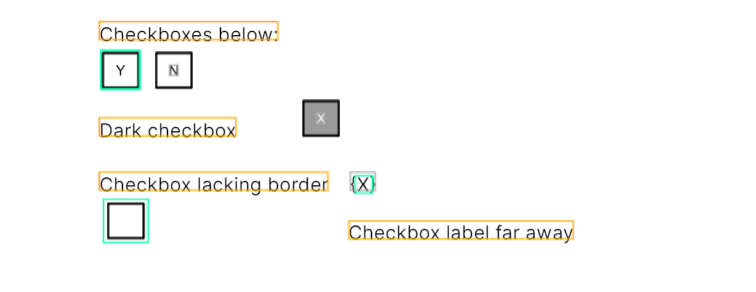
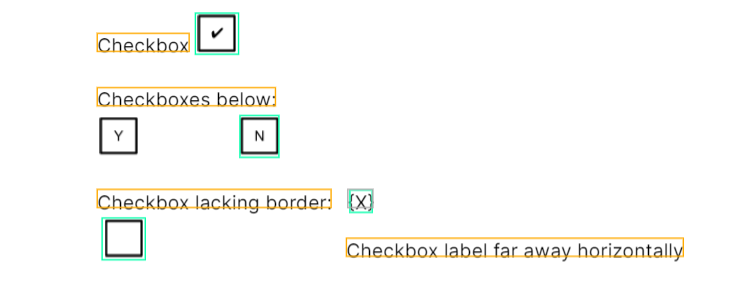
polish

Changed region(s): [[0.1222, 0.028, 0.9163, 0.9231]]

diff --git a/readme-sync/v0/senseml-reference/2000 - methods/1650 - draft-nearest-checkbox.md b/readme-sync/v0/senseml-reference/2000 - methods/1650 - draft-nearest-checkbox.md
@@ -4,7 +4,7 @@ hidden: true
 ---
 Searches for the checkbox nearest to the anchor in any direction, and returns a boolean indicating if it is selected or unselected. 
 
-Use this method as an alterative to the Checkbox method. The advantage of the Nearest Checkbox method is that it is more flexible, requires less configuration, and can sometimes recognize a selection mark when the Checkbox method can't. The disadvantage is that it's slower than the Checkbox method, because the Nearest Checkbox method uses OCR. 
+Use this method as an alterative to the Checkbox method. The advantage of the Nearest Checkbox method is that it is more flexible, requires less configuration, and recognizes a wider range of checkbox formats. The disadvantage is that it's slower than the Checkbox method, because the Nearest Checkbox method uses OCR. 
 
 
 
@@ -18,7 +18,7 @@ Parameters
 
 | key                     | values                       | description                                                  |
 | ----------------------- | ---------------------------- | ------------------------------------------------------------ |
-| id (**required**)       | `nearestCheckbox`            | Sensible returns true if it finds a selection if the selection mark is a checkmark, "Y", or "X" character.  Sensible returns false if the selection mark is missing or any other character.  This method can recognize selection marks with discontinuous borders, for example, `{X}`. <br/>Note that the OCR settings you specify for a document type in the Sensible app don't affect this method's use of OCR. |
+| id (**required**)       | `nearestCheckbox`            | Sensible returns true if the checkbox is selected and false if the checkbox is not selected. This method uses Azure Form Recognizer’s checkbox detection. This detection uses OCR and machine learning and captures a wide range of checkbox formats. |
 | position (**required**) | `left`, `right`              | Defines the starting point for searching for the nearest selection mark. Sensible searches outward from this point in all directions.  `right`  specifies starting at the midpoint of the anchor line's right boundary, and `left` specifies starting at the midpoint of the anchor line's left boundary. |
 | offsetX                 | number in inches. default: 0 | Searches for a selection mark starting at a point offset horizontally from the point defined by the Position parameter. |
 | offsetY                 | number in inches. default: 0 | Searches for a selection mark starting at a point offset vertically from the point defined by the Position parameter. |
@@ -26,26 +26,22 @@ Parameters
 Examples
 ====
 
-The following example shows extracting TBD:
-
-
-
-LEFT OFF: TODO: https://dev.sensible.so/editor/?d=frances_test_playground&c=nearest_checkbox&g=sections_blog_bank_statement_chase
+The following example shows extracting the checkboxes that are nearest to the specified position:
 
 ```json
 {
   "fields": [
     {
-      "id": "checkbox_below",
-      "anchor": "below",
+      "id": "checkbox_right",
+      "anchor": "checkbox",
       "method": {
         "id": "nearestCheckbox",
-        "position": "left"
+        "position": "right"
       }
     },
     {
-      "id": "checkbox_dark",
-      "anchor": "dark",
+      "id": "checkbox_below",
+      "anchor": "below",
       "method": {
         "id": "nearestCheckbox",
         "position": "right"
@@ -65,7 +61,7 @@ LEFT OFF: TODO: https://dev.sensible.so/editor/?d=frances_test_playground&c=near
       "method": {
         "id": "nearestCheckbox",
         "position": "left",
-        "offsetX": -2.0
+        "offsetX": -2
       }
     }
   ]
@@ -89,13 +85,13 @@ The following image shows the example PDF used with this example config:
 
 ```json
 {
-  "checkbox_below": {
+  "checkbox_right": {
     "type": "boolean",
     "value": true
   },
-  "checkbox_dark": {
+  "checkbox_below": {
     "type": "boolean",
-    "value": true
+    "value": false
   },
   "checkbox_no_border": {
     "type": "boolean",
@@ -106,7 +102,6 @@ The following image shows the example PDF used with this example config:
     "value": false
   }
 }
-
 ```
 
 
